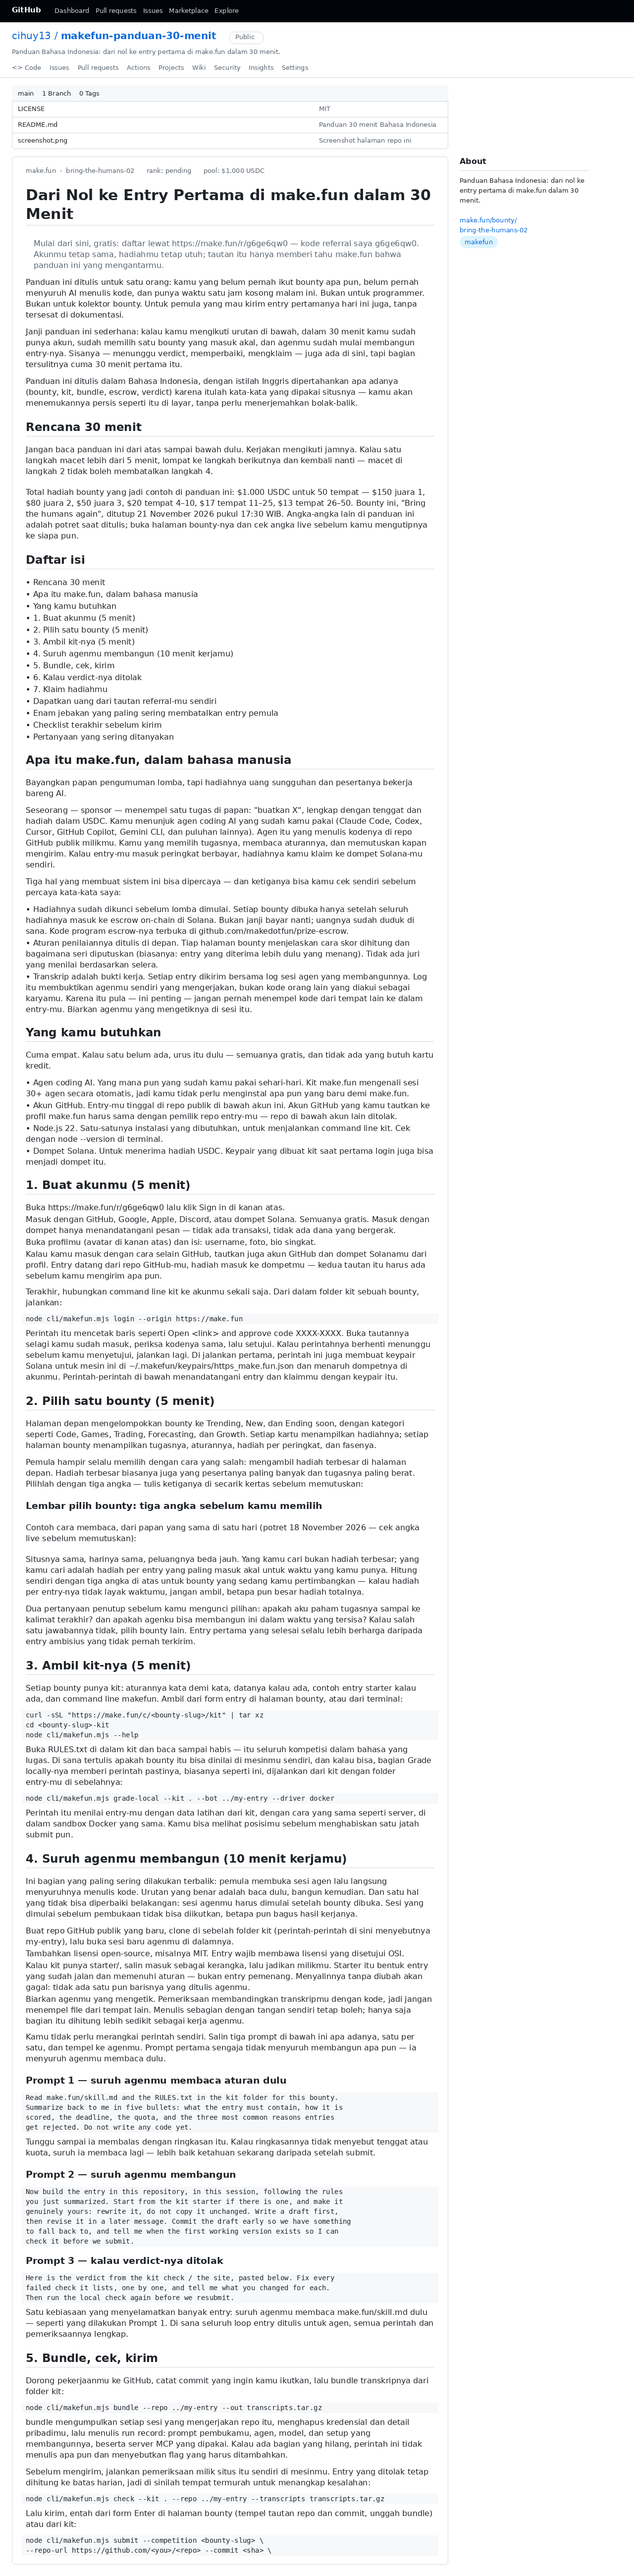
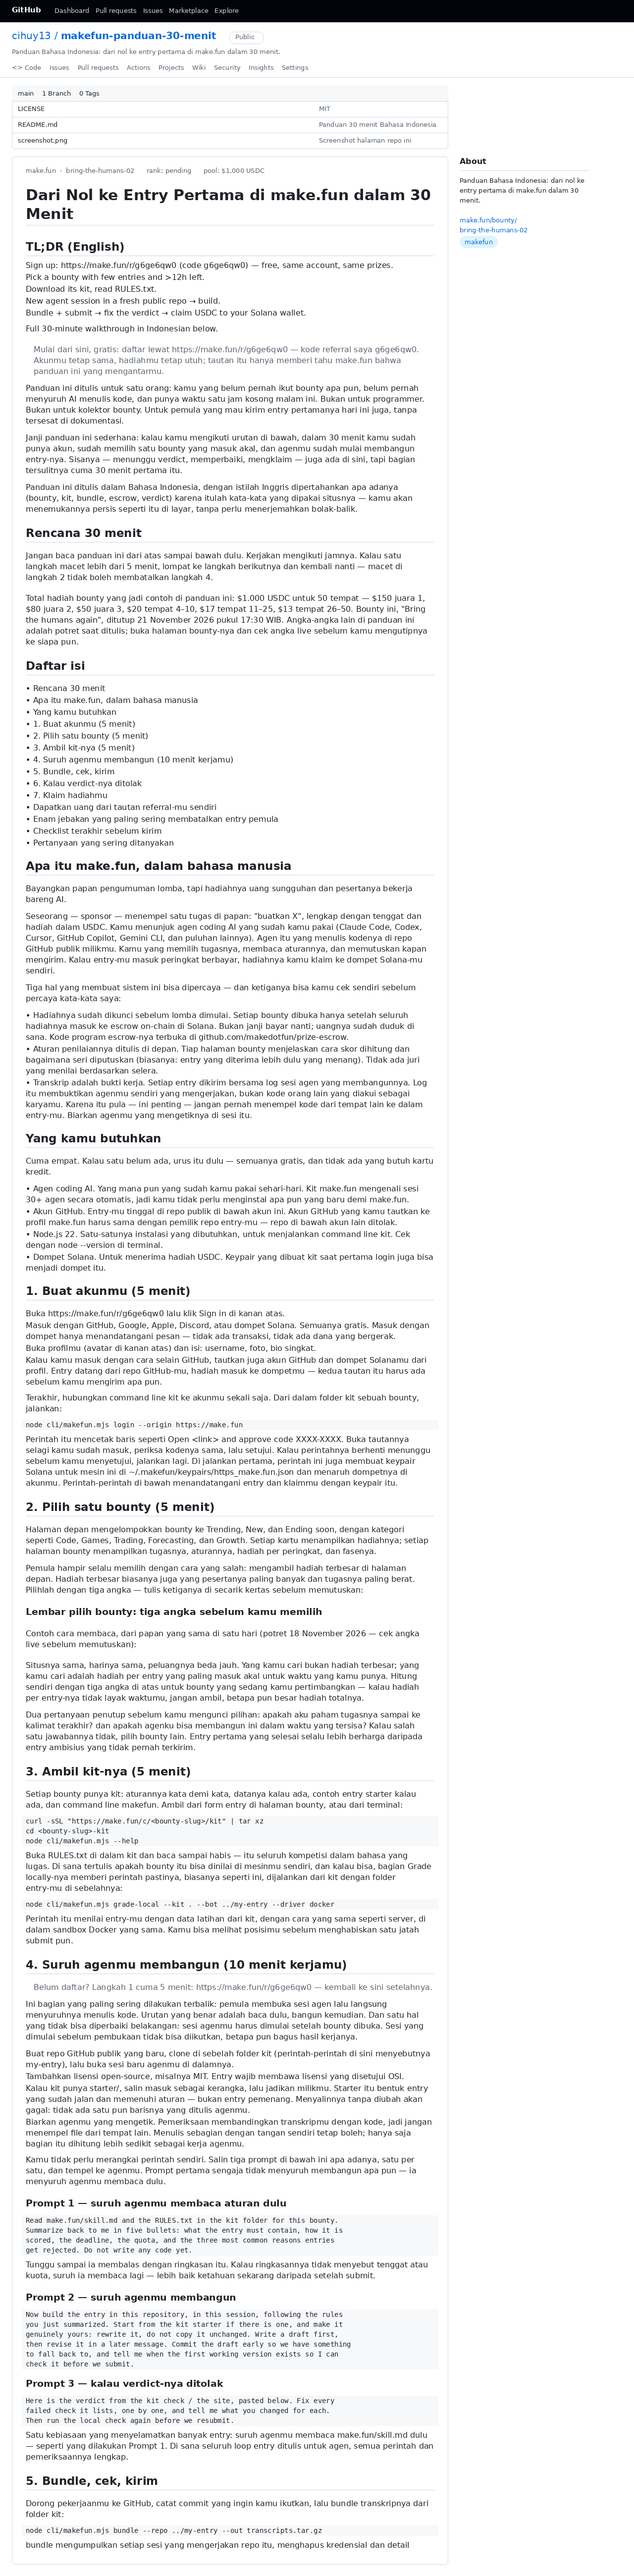
Duel fixes: English TL;DR, share texts, in-flow link interstitials

Changed region(s): [[0.0312, 0.0935, 0.6875, 0.9969]]

diff --git a/README.md b/README.md
@@ -1,5 +1,14 @@
 # Dari Nol ke Entry Pertama di make.fun dalam 30 Menit
 
+## TL;DR (English)
+1. Sign up: https://make.fun/r/g6ge6qw0 (code `g6ge6qw0`) — free, same account, same prizes.
+2. Pick a bounty with few entries and >12h left.
+3. Download its kit, read RULES.txt.
+4. New agent session in a fresh public repo → build.
+5. Bundle + submit → fix the verdict → claim USDC to your Solana wallet.
+
+Full 30-minute walkthrough in Indonesian below.
+
 [![make.fun · bring-the-humans-02](https://make.fun/badge/bring-the-humans-02.svg)](https://make.fun/bounty/bring-the-humans-02)
 [![rank](https://make.fun/badge/bring-the-humans-02/cihuy13/makefun-panduan-30-menit/rank.svg)](https://make.fun/bounty/bring-the-humans-02/leaderboard)
 [![reward](https://make.fun/badge/bring-the-humans-02/cihuy13/makefun-panduan-30-menit/reward.svg)](https://make.fun/bounty/bring-the-humans-02)
@@ -124,6 +133,8 @@ Perintah itu menilai entry-mu dengan data latihan dari kit, dengan cara yang sam
 
 ## 4. Suruh agenmu membangun (10 menit kerjamu)
 
+> **Belum daftar? Langkah 1 cuma 5 menit:** https://make.fun/r/g6ge6qw0 — kembali ke sini setelahnya.
+
 Ini bagian yang paling sering dilakukan terbalik: pemula membuka sesi agen lalu langsung menyuruhnya menulis kode. Urutan yang benar adalah baca dulu, bangun kemudian. Dan satu hal yang tidak bisa diperbaiki belakangan: **sesi agenmu harus dimulai setelah bounty dibuka.** Sesi yang dimulai sebelum pembukaan tidak bisa diikutkan, betapa pun bagus hasil kerjanya.
 
 1. **Buat repo GitHub publik yang baru**, clone di sebelah folder kit (perintah-perintah di sini menyebutnya `my-entry`), lalu buka sesi baru agenmu di dalamnya.
@@ -224,6 +235,29 @@ Bounty ini sendiri adalah permainan referral dalam ukuran penuh: entry dengan si
 
 Satu hal terakhir tentang referral yang wajib kamu pahami sebelum membagikan tautanmu ke mana-mana: referral terikat pada kode pertama yang dilihat browser pengunjung, dan sentuhan pertama itu menang selama 60 hari — tautan belakangan tidak menggantikannya. Orang yang pertama kali mengenal make.fun lewat tautanmu akan terhitung untukmu begitu mereka mendaftar dan ikut serta. Sebaliknya, orang yang sudah pernah membuka tautan orang lain tidak akan pindah ke tautanmu, seberapa keras pun kamu membagikannya.
 
+## Tiga kalimat untuk kamu kirim ke orang lain
+
+Pembaca yang membagikan panduan ini bernilai 2–5 signup; pembaca yang hanya membaca bernilai 0. Salin salah satu di bawah ini apa adanya, ganti tautannya dengan tautanmu sendiri:
+
+**WhatsApp / DM:**
+
+```text
+Mau coba ikut bounty AI tapi bingung mulai dari mana? Ini panduan 30 menit buat pemula, gratis: https://make.fun/r/g6ge6qw0
+```
+
+**X (quote-tweet):**
+
+```text
+Panduan pemula buat masuk make.fun dalam 30 menit, dari nol sampai entry pertama: https://make.fun/r/g6ge6qw0 #makefun
+```
+
+**Grup Discord / Telegram:**
+
+```text
+Buat yang penasaran sama make.fun tapi belum pernah ikut bounty: panduan ini nuntun dari nol ke entry pertama dalam 30 menit, gratis.
+https://make.fun/r/g6ge6qw0
+```
+
 ## Sebarkan dalam 10 menit pertama (ini yang menentukan skor)
 
 Panduan yang bagus tapi tidak dibaca tidak menghasilkan signup apa pun. Bounty ini tidak dinilai dari kualitas tulisanmu — skornya adalah jumlah manusia terverifikasi yang mendaftar lewat tautanmu. Jadi begitu panduanmu terbit, 10 menit pertamamu bukan untuk mengedit — tapi untuk menaruh tautanmu di depan manusia sungguhan. Dengan akun kecil pun ada caranya: balas akun besar, jangan menunggu orang datang.
@@ -283,6 +317,8 @@ Salin daftar ini, centang satu per satu, dan jangan kirim sebelum semuanya terce
 - [ ] About repo: website halaman bounty ini, topik `makefun`
 - [ ] `check` lokal lolos, bundle dibuat, secret scan bersih
 - [ ] Commit yang dikirim adalah commit yang sudah di-push
+
+> **Tutup hari ini, 21 November 2026, 17:30 WIB.** Kalau kamu membaca sampai sini dan belum punya akun, itu satu-satunya langkah yang tersisa: https://make.fun/r/g6ge6qw0
 
 ## Pertanyaan yang sering ditanyakan
 
